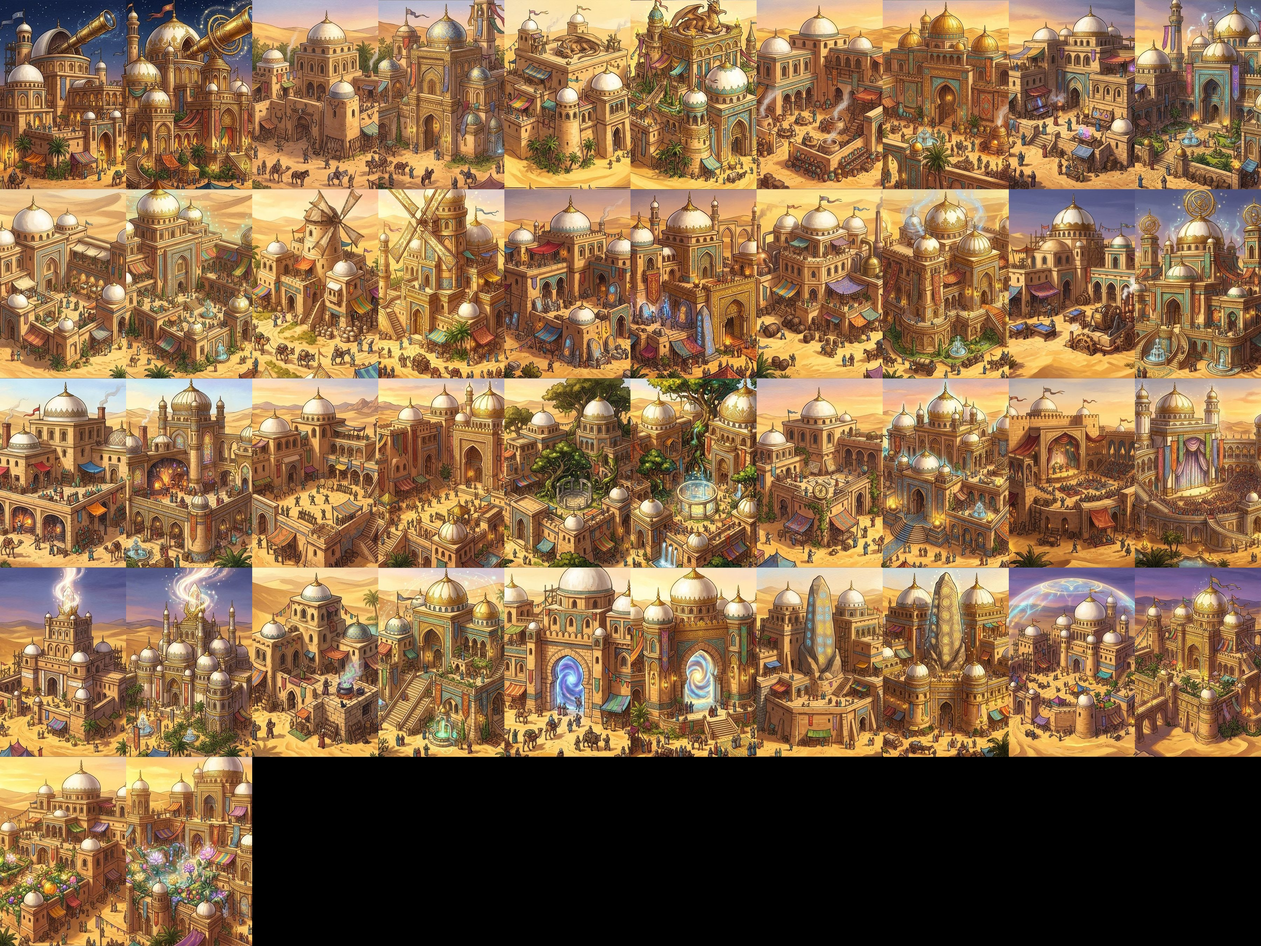
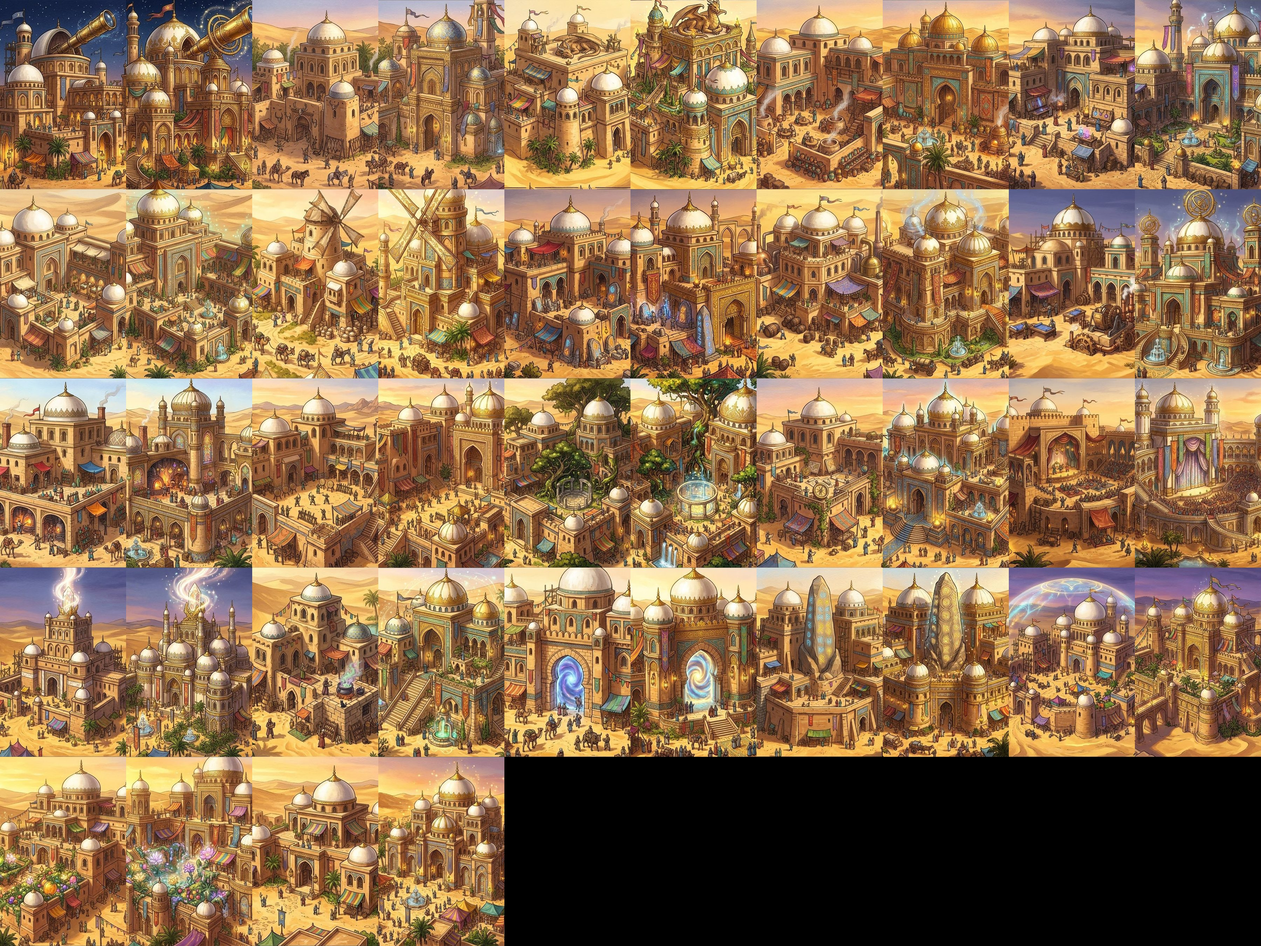
Картинки Дома старосты 2 и 3 уровня
Claude-Session: https://claude.ai/code/session_01HyoCSepB2PEcoN3jCxWxLT

Changed region(s): [[0.1867, 0.7778, 0.4044, 1.0]]

diff --git a/app/src/main/assets/www/index.html b/app/src/main/assets/www/index.html
@@ -482,7 +482,7 @@ body{overflow-x:hidden}
 <style id="imgcss"></style>
 
 <script>
-const BUILD_VER="13.11.2026 21:49";
+const BUILD_VER="13.11.2026 21:51";
 let SLOT=1;try{SLOT=+localStorage.getItem('sixlands-slot')||1}catch(e){}
 const SK_=n=>'sixlands-save-'+n;
 try{const old=localStorage.getItem('tiholesye-v3');if(old&&!localStorage.getItem(SK_(1))){localStorage.setItem(SK_(1),old);localStorage.removeItem('tiholesye-v3')}}catch(e){}
@@ -998,7 +998,7 @@ try{STYLE=localStorage.getItem('tiholesye-style3')||STYLE_DEF}catch(e){}
 const TERR=Object.keys(LAND);
 const IMG={};let db=null,TEX=null,pendingKey=null;
 const BUILT=new Set(["alchemy", "archery", "bakery", "ballista", "barracks", "barrier", "beacon", "brewery", "burrow", "burrow_2", "butcher", "civ_code", "civ_craft", "civ_diplomacy", "civ_drama", "civ_empire", "civ_feudal", "civ_golden", "civ_hospitality", "civ_humanism", "civ_myth", "civ_theology", "civ_warcode", "cs_amber", "cs_forge", "cs_moon", "cs_pirates", "cs_sages", "desert__emblem", "dragon", "e_artifact", "e_bandits", "e_bard", "e_border", "e_caravan", "e_dragon", "e_drought", "e_eclipse", "e_envoy", "e_fair", "e_fairy", "e_fire", "e_giftfrom", "e_goblins", "e_harvestfest", "e_inventor", "e_manticore", "e_omen", "e_ore", "e_pilgrims", "e_plague", "e_refugees", "e_rumor", "e_spy", "e_star", "e_tribute", "e_troll", "e_undead", "e_wedding", "e_wolves", "east__emblem", "elves__emblem", "enchanter", "europe__emblem", "ev_pirates", "farm", "farm_2", "fate", "fence", "fountain", "g_lunira", "g_merkator", "g_mirta", "g_solara", "g_torvald", "g_velgard", "garden", "gate", "gd_crystal", "gd_map", "gd_mercs", "gd_relic", "gd_scroll", "gd_seeds", "gd_silk", "gd_statue", "glass", "gp_artist", "gp_general", "gp_scientist", "grove", "hall", "herbalist", "hole", "hole_2", "hunter", "hut", "hut_2", "infirmary", "jeweler", "library", "logo", "longhouse", "longhouse_2", "lumber", "m_alchemy", "m_archery", "m_bakery", "m_barracks", "m_brewery", "m_butcher", "m_dragon", "m_enchanter", "m_glass", "m_grove", "m_herbalist", "m_hunter", "m_infirmary", "m_jeweler", "m_library", "m_mapper", "m_mill", "m_observatory", "m_potter", "m_runes", "m_smithy", "m_tailor", "m_tavern", "m_theater", "m_tower", "m_witchhut", "m_workshop", "magi__emblem", "manawell", "mapper", "market", "mill", "north__emblem", "observatory", "palisade", "portal", "potter", "prop_defense", "prop_home", "prop_quests", "prop_trip", "quarry", "race_dwarf", "race_elf", "race_halfling", "race_human", "race_orc", "res_culture", "res_fame", "res_food", "res_gold", "res_happy", "res_mana", "res_people", "res_science", "res_stone", "res_wood", "runes", "season_autumn", "season_spring", "season_summer", "season_winter", "sh_lunira", "sh_merkator", "sh_mirta", "sh_solara", "sh_torvald", "sh_velgard", "smithy", "sp_bloom", "sp_call", "sp_dream", "sp_festive", "sp_golem", "sp_meteor", "sp_prayer", "sp_rain", "sp_stoneskin", "sp_trans", "sp_ward", "sp_wings", "stonewall", "t_edge", "t_ley", "t_plain", "t_rock", "table_felt", "table_wood", "tailor", "tavern", "tech_agri", "tech_alchemy", "tech_arcana", "tech_archery", "tech_astronomy", "tech_bronze", "tech_currency", "tech_dragons", "tech_engineering", "tech_final", "tech_iron", "tech_masonry", "tech_math", "tech_mysticism", "tech_philosophy", "tech_riding", "tech_writing", "temple", "theater", "tower", "treehouse", "treehouse_2", "wardstone", "watchtower", "witchhut", "workshop", "east__spy", "europe__spy", "elves__spy", "magi__spy", "north__spy", "desert__spy", "ms_scout", "ms_steal", "ms_sabotage", "ms_gold", "ms_rig", "ms_counter", "east__hero", "europe__hero", "elves__hero", "magi__hero", "north__hero", "rl_seed", "rl_lens", "rl_lyre", "rl_grail", "rl_axe", "rl_pick", "rl_orb", "rl_banner", "rl_mask", "rl_map", "rl_heart", "rl_icecrown", "rl_staff", "caravan", "sc_winter", "sc_siege", "sc_merchant", "sc_sage", "desert__hero", "o_fair", "sc_hunter", "o_harvest", "sc_unity", "o_logging", "o_watch", "o_muster", "o_stone", "o_study", "o_tithe", "o_guild", "rl_horn", "o_ley", "rl_crown", "o_labor", "ex_lich", "o_envoy", "ex_giant", "o_levy", "ex_dragon", "ex_barrow", "o_arts", "ex_camp", "o_cry", "ex_nest", "o_secret", "ex_temple", "o_expedit", "ex_cave", "ex_ruins", "gw_lighthouse", "gw_mint", "gw_gardens", "gw_library", "gw_colosseum", "gw_academy", "gw_wall", "gw_cathedral", "mc_rabble", "mc_pikes", "mc_axes", "mc_bows", "mc_riders", "mc_mages", "mc_siege", "desert__hr_mystic", "desert__hr_ranger", "desert__hr_guard", "desert__hr_champ", "north__hr_mystic", "north__hr_ranger", "north__hr_guard", "north__hr_champ", "magi__hr_ranger", "magi__hr_guard", "magi__hr_champ", "magi__hr_mystic", "elves__hr_guard", "elves__hr_ranger", "elves__hr_champ", "elves__hr_mystic", "europe__hr_guard", "europe__hr_ranger", "europe__hr_mystic", "europe__hr_champ", "east__hr_ranger", "east__hr_guard", "east__hr_mystic", "east__hr_champ"]);
-const PK={},ATL={"east":["hall","hut","house","manor","farm","lumber","quarry","manawell","market","fountain","temple","wonder","fence","palisade","watchtower","stonewall","gate","ballista","yard","stable","sh_harvest","sh_forge","sh_magic","sh_guard","sh_hearth","sh_trade","butcher","bakery","tavern","smithy","herbalist","alchemy","tailor","jeweler","barracks","library","tower","observatory","enchanter","dragon","hunter","potter","brewery","mill","infirmary","runes","grove","glass","workshop","archery","witchhut","theater","mapper","beacon","garden","portal","wardstone","barrier","m_tavern","m_hunter","m_butcher","m_bakery","m_potter","m_smithy","m_herbalist","m_mill","m_alchemy","m_barracks","m_tailor","m_brewery","m_infirmary","m_archery","m_jeweler","m_runes","m_workshop","m_library","m_grove","m_glass","m_witchhut","m_theater","m_mapper","m_tower","m_observatory","m_enchanter","m_dragon","g_harvest","g_forge","g_magic","g_guard","g_hearth","g_trade","sp_unique","u_militia","u_soldier","u_archer","u_cavalry","u_siege","u_mage","u_unique",null,"manor_2","manor_3","farm_2","farm_3","manawell_2","manawell_3","quarry_2","quarry_3","market_2","market_3","lumber_2","lumber_3","watchtower_2","watchtower_3","temple_2","temple_3","stonewall_2","stonewall_3","fountain_2","fountain_3","ballista_2","ballista_3","yard_2","yard_3","stable_2","stable_3","gate_2","gate_3","tavern_2","tavern_3","bakery_2","bakery_3","smithy_2","smithy_3","butcher_2","butcher_3","tailor_2","tailor_3","alchemy_2","alchemy_3","jeweler_2","jeweler_3","herbalist_2","herbalist_3","tower_2","tower_3","library_2","library_3","observatory_2","observatory_3","barracks_2","barracks_3","dragon_2","dragon_3","hunter_2","hunter_3","potter_2","potter_3","enchanter_2","enchanter_3","mill_2","mill_3","infirmary_2","infirmary_3","runes_2","runes_3","brewery_2","brewery_3","workshop_2","workshop_3","glass_2","glass_3","archery_2","archery_3","grove_2","grove_3","theater_2","theater_3","mapper_2","mapper_3","beacon_2","beacon_3","witchhut_2","witchhut_3","wardstone_2","wardstone_3","portal_2","portal_3","barrier_2","barrier_3","garden_2","garden_3"],"europe":["hall","hut","house","manor","farm","lumber","quarry","manawell","market","fountain","temple","wonder","fence","palisade","watchtower","stonewall","gate","ballista","yard","stable","sh_harvest","sh_forge","sh_magic","sh_guard","sh_hearth","sh_trade","butcher","bakery","tavern","smithy","herbalist","alchemy","tailor","jeweler","barracks","library","tower","observatory","enchanter","dragon","hunter","potter","brewery","mill","infirmary","runes","grove","glass","workshop","archery","witchhut","theater","mapper","beacon","garden","portal","wardstone","barrier","m_tavern","m_hunter","m_butcher","m_bakery","m_potter","m_smithy","m_herbalist","m_mill","m_alchemy","m_barracks","m_tailor","m_brewery","m_infirmary","m_archery","m_jeweler","m_runes","m_workshop","m_library","m_grove","m_glass","m_witchhut","m_theater","m_mapper","m_tower","m_observatory","m_enchanter","m_dragon","g_harvest","g_forge","g_magic","g_guard","g_hearth","g_trade","sp_unique","u_militia","u_soldier","u_archer","u_cavalry","u_siege","u_mage","u_unique",null,"manor_2","manor_3","farm_2","farm_3","manawell_2","manawell_3","quarry_2","quarry_3","market_2","market_3","lumber_2","lumber_3","temple_2","temple_3","watchtower_2","watchtower_3","stonewall_2","stonewall_3","fountain_2","fountain_3","ballista_2","ballista_3","yard_2","yard_3","stable_2","stable_3","gate_2","gate_3","tavern_2","tavern_3","bakery_2","bakery_3","smithy_2","smithy_3","butcher_2","butcher_3","alchemy_2","alchemy_3","tailor_2","tailor_3","jeweler_2","jeweler_3","herbalist_2","herbalist_3","library_2","library_3","tower_2","tower_3","observatory_2","observatory_3","barracks_2","barracks_3","dragon_2","dragon_3","hunter_2","hunter_3","enchanter_2","enchanter_3","potter_2","potter_3","mill_2","mill_3","infirmary_2","infirmary_3","runes_2","runes_3","brewery_2","brewery_3","glass_2","glass_3","workshop_2","workshop_3","archery_2","archery_3","grove_2","grove_3","mapper_2","mapper_3","theater_2","theater_3","beacon_2","beacon_3","witchhut_2","witchhut_3","portal_2","portal_3","wardstone_2","wardstone_3","barrier_2","barrier_3","garden_2","garden_3"],"elves":["hall","hut","house","manor","farm","lumber","quarry","manawell","market","fountain","temple","wonder","fence","palisade","watchtower","stonewall","gate","ballista","yard","stable","sh_harvest","sh_forge","sh_magic","sh_guard","sh_hearth","sh_trade","butcher","bakery","tavern","smithy","herbalist","alchemy","tailor","jeweler","barracks","library","tower","observatory","enchanter","dragon","hunter","potter","brewery","mill","infirmary","runes","grove","glass","workshop","archery","witchhut","theater","mapper","beacon","garden","portal","wardstone","barrier","m_tavern","m_hunter","m_butcher","m_bakery","m_potter","m_smithy","m_herbalist","m_mill","m_alchemy","m_barracks","m_tailor","m_brewery","m_infirmary","m_archery","m_jeweler","m_runes","m_workshop","m_library","m_grove","m_glass","m_witchhut","m_theater","m_mapper","m_tower","m_observatory","m_enchanter","m_dragon","g_harvest","g_forge","g_magic","g_guard","g_hearth","g_trade","sp_unique","u_militia","u_soldier","u_archer","u_cavalry","u_siege","u_mage","u_unique",null,"manor_2","manor_3","farm_2","farm_3","lumber_2","lumber_3","market_2","market_3","manawell_2","manawell_3","quarry_2","quarry_3","fountain_2","fountain_3","watchtower_2","watchtower_3","stonewall_2","stonewall_3","temple_2","temple_3","ballista_2","ballista_3","yard_2","yard_3","stable_2","stable_3","gate_2","gate_3","bakery_2","bakery_3","tavern_2","tavern_3","butcher_2","butcher_3","smithy_2","smithy_3","tailor_2","tailor_3","alchemy_2","alchemy_3","jeweler_2","jeweler_3","herbalist_2","herbalist_3","library_2","library_3","tower_2","tower_3","observatory_2","observatory_3","barracks_2","barracks_3","dragon_2","dragon_3","hunter_2","hunter_3","potter_2","potter_3","enchanter_2","enchanter_3","mill_2","mill_3","infirmary_2","infirmary_3","runes_2","runes_3","brewery_2","brewery_3","glass_2","glass_3","workshop_2","workshop_3","grove_2","grove_3","archery_2","archery_3","theater_2","theater_3","mapper_2","mapper_3","beacon_2","beacon_3","witchhut_2","witchhut_3","portal_2","portal_3","wardstone_2","wardstone_3","garden_2","garden_3","barrier_2","barrier_3"],"magi":["hall","hut","house","manor","farm","lumber","quarry","manawell","market","fountain","temple","wonder","fence","palisade","watchtower","stonewall","gate","ballista","yard","stable","sh_harvest","sh_forge","sh_magic","sh_guard","sh_hearth","sh_trade","butcher","bakery","tavern","smithy","herbalist","alchemy","tailor","jeweler","barracks","library","tower","observatory","enchanter","dragon","hunter","potter","brewery","mill","infirmary","runes","grove","glass","workshop","archery","witchhut","theater","mapper","beacon","garden","portal","wardstone","barrier","m_tavern","m_hunter","m_butcher","m_bakery","m_potter","m_smithy","m_herbalist","m_mill","m_alchemy","m_barracks","m_tailor","m_brewery","m_infirmary","m_archery","m_jeweler","m_runes","m_workshop","m_library","m_grove","m_glass","m_witchhut","m_theater","m_mapper","m_tower","m_observatory","m_enchanter","m_dragon","g_harvest","g_forge","g_magic","g_guard","g_hearth","g_trade","sp_unique","u_militia","u_soldier","u_archer","u_cavalry","u_siege","u_mage","u_unique",null,"manor_2","manor_3","farm_2","farm_3","quarry_2","quarry_3","manawell_2","manawell_3","market_2","market_3","lumber_2","lumber_3","temple_2","temple_3","watchtower_2","watchtower_3","stonewall_2","stonewall_3","fountain_2","fountain_3","ballista_2","ballista_3","yard_2","yard_3","stable_2","stable_3","gate_2","gate_3","bakery_2","bakery_3","tavern_2","tavern_3","smithy_2","smithy_3","butcher_2","butcher_3","alchemy_2","alchemy_3","tailor_2","tailor_3","jeweler_2","jeweler_3","herbalist_2","herbalist_3","library_2","library_3","tower_2","tower_3","observatory_2","observatory_3","barracks_2","barracks_3","hunter_2","hunter_3","dragon_2","dragon_3","potter_2","potter_3","enchanter_2","enchanter_3","mill_2","mill_3","infirmary_2","infirmary_3","runes_2","runes_3","brewery_2","brewery_3","glass_2","glass_3","workshop_2","workshop_3","archery_2","archery_3","grove_2","grove_3","theater_2","theater_3","mapper_2","mapper_3","beacon_2","beacon_3","witchhut_2","witchhut_3","portal_2","portal_3","wardstone_2","wardstone_3","barrier_2","barrier_3","garden_2","garden_3"],"north":["hall","hut","house","manor","farm","lumber","quarry","manawell","market","fountain","temple","wonder","fence","palisade","watchtower","stonewall","gate","ballista","yard","stable","sh_harvest","sh_forge","sh_magic","sh_guard","sh_hearth","sh_trade","butcher","bakery","tavern","smithy","herbalist","alchemy","tailor","jeweler","barracks","library","tower","observatory","enchanter","dragon","hunter","potter","brewery","mill","infirmary","runes","grove","glass","workshop","archery","witchhut","theater","mapper","beacon","garden","portal","wardstone","barrier","m_tavern","m_hunter","m_butcher","m_bakery","m_potter","m_smithy","m_herbalist","m_mill","m_alchemy","m_barracks","m_tailor","m_brewery","m_infirmary","m_archery","m_jeweler","m_runes","m_workshop","m_library","m_grove","m_glass","m_witchhut","m_theater","m_mapper","m_tower","m_observatory","m_enchanter","m_dragon","g_harvest","g_forge","g_magic","g_guard","g_hearth","g_trade","sp_unique","u_militia","u_soldier","u_archer","u_cavalry","u_siege","u_mage","u_unique",null,"wardstone_2","wardstone_3","portal_2","portal_3","barrier_2","barrier_3","garden_2","garden_3","theater_2","theater_3","mapper_2","mapper_3","witchhut_2","witchhut_3","beacon_2","beacon_3","workshop_2","workshop_3","glass_2","glass_3","grove_2","grove_3","archery_2","archery_3","mill_2","mill_3","infirmary_2","infirmary_3","brewery_2","brewery_3","runes_2","runes_3","dragon_2","dragon_3","hunter_2","hunter_3","enchanter_2","enchanter_3","potter_2","potter_3","library_2","library_3","tower_2","tower_3","barracks_2","barracks_3","observatory_2","observatory_3","alchemy_2","alchemy_3","tailor_2","tailor_3","herbalist_2","herbalist_3","jeweler_2","jeweler_3","tavern_2","tavern_3","bakery_2","bakery_3","butcher_2","butcher_3","smithy_2","smithy_3","yard_2","yard_3","ballista_2","ballista_3","gate_2","gate_3","stable_2","stable_3","watchtower_2","watchtower_3","temple_2","temple_3","fountain_2","fountain_3","stonewall_2","stonewall_3","manawell_2","manawell_3","quarry_2","quarry_3","market_2","market_3","lumber_2","lumber_3","farm_2","farm_3","manor_2","manor_3"],"desert":["hall","hut","house","manor","farm","lumber","quarry","manawell","market","fountain","temple","wonder","fence","palisade","watchtower","stonewall","gate","ballista","yard","stable","sh_harvest","sh_forge","sh_magic","sh_guard","sh_hearth","sh_trade","butcher","bakery","tavern","smithy","herbalist","alchemy","tailor","jeweler","barracks","library","tower","observatory","enchanter","dragon","hunter","potter","brewery","mill","infirmary","runes","grove","glass","workshop","archery","witchhut","theater","mapper","beacon","garden","portal","wardstone","barrier","m_tavern","m_hunter","m_butcher","m_bakery","m_potter","m_smithy","m_herbalist","m_mill","m_alchemy","m_barracks","m_tailor","m_brewery","m_infirmary","m_archery","m_jeweler","m_runes","m_workshop","m_library","m_grove","m_glass","m_witchhut","m_theater","m_mapper","m_tower","m_observatory","m_enchanter","m_dragon","g_harvest","g_forge","g_magic","g_guard","g_hearth","g_trade","sp_unique","u_militia","u_soldier","u_archer","u_cavalry","u_siege","u_mage","u_unique",null,"manor_2","manor_3","farm_2","farm_3","lumber_2","lumber_3","market_2","market_3","quarry_2","quarry_3","manawell_2","manawell_3","watchtower_2","watchtower_3","temple_2","temple_3","stonewall_2","stonewall_3","fountain_2","fountain_3","yard_2","yard_3","ballista_2","ballista_3","stable_2","stable_3","gate_2","gate_3","tavern_2","tavern_3","bakery_2","bakery_3","butcher_2","butcher_3","smithy_2","smithy_3","tailor_2","tailor_3","alchemy_2","alchemy_3","jeweler_2","jeweler_3","herbalist_2","herbalist_3","library_2","library_3","tower_2","tower_3","barracks_2","barracks_3","observatory_2","observatory_3","hunter_2","hunter_3","dragon_2","dragon_3","potter_2","potter_3","enchanter_2","enchanter_3","infirmary_2","infirmary_3","mill_2","mill_3","runes_2","runes_3","brewery_2","brewery_3","workshop_2","workshop_3","glass_2","glass_3","archery_2","archery_3","grove_2","grove_3","mapper_2","mapper_3","theater_2","theater_3","beacon_2","beacon_3","witchhut_2","witchhut_3","portal_2","portal_3","wardstone_2","wardstone_3","barrier_2","barrier_3","garden_2","garden_3"]},ATLS={};
+const PK={},ATL={"east":["hall","hut","house","manor","farm","lumber","quarry","manawell","market","fountain","temple","wonder","fence","palisade","watchtower","stonewall","gate","ballista","yard","stable","sh_harvest","sh_forge","sh_magic","sh_guard","sh_hearth","sh_trade","butcher","bakery","tavern","smithy","herbalist","alchemy","tailor","jeweler","barracks","library","tower","observatory","enchanter","dragon","hunter","potter","brewery","mill","infirmary","runes","grove","glass","workshop","archery","witchhut","theater","mapper","beacon","garden","portal","wardstone","barrier","m_tavern","m_hunter","m_butcher","m_bakery","m_potter","m_smithy","m_herbalist","m_mill","m_alchemy","m_barracks","m_tailor","m_brewery","m_infirmary","m_archery","m_jeweler","m_runes","m_workshop","m_library","m_grove","m_glass","m_witchhut","m_theater","m_mapper","m_tower","m_observatory","m_enchanter","m_dragon","g_harvest","g_forge","g_magic","g_guard","g_hearth","g_trade","sp_unique","u_militia","u_soldier","u_archer","u_cavalry","u_siege","u_mage","u_unique",null,"manor_2","manor_3","farm_2","farm_3","manawell_2","manawell_3","quarry_2","quarry_3","market_2","market_3","lumber_2","lumber_3","watchtower_2","watchtower_3","temple_2","temple_3","stonewall_2","stonewall_3","fountain_2","fountain_3","ballista_2","ballista_3","yard_2","yard_3","stable_2","stable_3","gate_2","gate_3","tavern_2","tavern_3","bakery_2","bakery_3","smithy_2","smithy_3","butcher_2","butcher_3","tailor_2","tailor_3","alchemy_2","alchemy_3","jeweler_2","jeweler_3","herbalist_2","herbalist_3","tower_2","tower_3","library_2","library_3","observatory_2","observatory_3","barracks_2","barracks_3","dragon_2","dragon_3","hunter_2","hunter_3","potter_2","potter_3","enchanter_2","enchanter_3","mill_2","mill_3","infirmary_2","infirmary_3","runes_2","runes_3","brewery_2","brewery_3","workshop_2","workshop_3","glass_2","glass_3","archery_2","archery_3","grove_2","grove_3","theater_2","theater_3","mapper_2","mapper_3","beacon_2","beacon_3","witchhut_2","witchhut_3","wardstone_2","wardstone_3","portal_2","portal_3","barrier_2","barrier_3","garden_2","garden_3","hall_2","hall_3"],"europe":["hall","hut","house","manor","farm","lumber","quarry","manawell","market","fountain","temple","wonder","fence","palisade","watchtower","stonewall","gate","ballista","yard","stable","sh_harvest","sh_forge","sh_magic","sh_guard","sh_hearth","sh_trade","butcher","bakery","tavern","smithy","herbalist","alchemy","tailor","jeweler","barracks","library","tower","observatory","enchanter","dragon","hunter","potter","brewery","mill","infirmary","runes","grove","glass","workshop","archery","witchhut","theater","mapper","beacon","garden","portal","wardstone","barrier","m_tavern","m_hunter","m_butcher","m_bakery","m_potter","m_smithy","m_herbalist","m_mill","m_alchemy","m_barracks","m_tailor","m_brewery","m_infirmary","m_archery","m_jeweler","m_runes","m_workshop","m_library","m_grove","m_glass","m_witchhut","m_theater","m_mapper","m_tower","m_observatory","m_enchanter","m_dragon","g_harvest","g_forge","g_magic","g_guard","g_hearth","g_trade","sp_unique","u_militia","u_soldier","u_archer","u_cavalry","u_siege","u_mage","u_unique",null,"manor_2","manor_3","farm_2","farm_3","manawell_2","manawell_3","quarry_2","quarry_3","market_2","market_3","lumber_2","lumber_3","temple_2","temple_3","watchtower_2","watchtower_3","stonewall_2","stonewall_3","fountain_2","fountain_3","ballista_2","ballista_3","yard_2","yard_3","stable_2","stable_3","gate_2","gate_3","tavern_2","tavern_3","bakery_2","bakery_3","smithy_2","smithy_3","butcher_2","butcher_3","alchemy_2","alchemy_3","tailor_2","tailor_3","jeweler_2","jeweler_3","herbalist_2","herbalist_3","library_2","library_3","tower_2","tower_3","observatory_2","observatory_3","barracks_2","barracks_3","dragon_2","dragon_3","hunter_2","hunter_3","enchanter_2","enchanter_3","potter_2","potter_3","mill_2","mill_3","infirmary_2","infirmary_3","runes_2","runes_3","brewery_2","brewery_3","glass_2","glass_3","workshop_2","workshop_3","archery_2","archery_3","grove_2","grove_3","mapper_2","mapper_3","theater_2","theater_3","beacon_2","beacon_3","witchhut_2","witchhut_3","portal_2","portal_3","wardstone_2","wardstone_3","barrier_2","barrier_3","garden_2","garden_3","hall_2","hall_3"],"elves":["hall","hut","house","manor","farm","lumber","quarry","manawell","market","fountain","temple","wonder","fence","palisade","watchtower","stonewall","gate","ballista","yard","stable","sh_harvest","sh_forge","sh_magic","sh_guard","sh_hearth","sh_trade","butcher","bakery","tavern","smithy","herbalist","alchemy","tailor","jeweler","barracks","library","tower","observatory","enchanter","dragon","hunter","potter","brewery","mill","infirmary","runes","grove","glass","workshop","archery","witchhut","theater","mapper","beacon","garden","portal","wardstone","barrier","m_tavern","m_hunter","m_butcher","m_bakery","m_potter","m_smithy","m_herbalist","m_mill","m_alchemy","m_barracks","m_tailor","m_brewery","m_infirmary","m_archery","m_jeweler","m_runes","m_workshop","m_library","m_grove","m_glass","m_witchhut","m_theater","m_mapper","m_tower","m_observatory","m_enchanter","m_dragon","g_harvest","g_forge","g_magic","g_guard","g_hearth","g_trade","sp_unique","u_militia","u_soldier","u_archer","u_cavalry","u_siege","u_mage","u_unique",null,"manor_2","manor_3","farm_2","farm_3","lumber_2","lumber_3","market_2","market_3","manawell_2","manawell_3","quarry_2","quarry_3","fountain_2","fountain_3","watchtower_2","watchtower_3","stonewall_2","stonewall_3","temple_2","temple_3","ballista_2","ballista_3","yard_2","yard_3","stable_2","stable_3","gate_2","gate_3","bakery_2","bakery_3","tavern_2","tavern_3","butcher_2","butcher_3","smithy_2","smithy_3","tailor_2","tailor_3","alchemy_2","alchemy_3","jeweler_2","jeweler_3","herbalist_2","herbalist_3","library_2","library_3","tower_2","tower_3","observatory_2","observatory_3","barracks_2","barracks_3","dragon_2","dragon_3","hunter_2","hunter_3","potter_2","potter_3","enchanter_2","enchanter_3","mill_2","mill_3","infirmary_2","infirmary_3","runes_2","runes_3","brewery_2","brewery_3","glass_2","glass_3","workshop_2","workshop_3","grove_2","grove_3","archery_2","archery_3","theater_2","theater_3","mapper_2","mapper_3","beacon_2","beacon_3","witchhut_2","witchhut_3","portal_2","portal_3","wardstone_2","wardstone_3","garden_2","garden_3","barrier_2","barrier_3","hall_2","hall_3"],"magi":["hall","hut","house","manor","farm","lumber","quarry","manawell","market","fountain","temple","wonder","fence","palisade","watchtower","stonewall","gate","ballista","yard","stable","sh_harvest","sh_forge","sh_magic","sh_guard","sh_hearth","sh_trade","butcher","bakery","tavern","smithy","herbalist","alchemy","tailor","jeweler","barracks","library","tower","observatory","enchanter","dragon","hunter","potter","brewery","mill","infirmary","runes","grove","glass","workshop","archery","witchhut","theater","mapper","beacon","garden","portal","wardstone","barrier","m_tavern","m_hunter","m_butcher","m_bakery","m_potter","m_smithy","m_herbalist","m_mill","m_alchemy","m_barracks","m_tailor","m_brewery","m_infirmary","m_archery","m_jeweler","m_runes","m_workshop","m_library","m_grove","m_glass","m_witchhut","m_theater","m_mapper","m_tower","m_observatory","m_enchanter","m_dragon","g_harvest","g_forge","g_magic","g_guard","g_hearth","g_trade","sp_unique","u_militia","u_soldier","u_archer","u_cavalry","u_siege","u_mage","u_unique",null,"manor_2","manor_3","farm_2","farm_3","quarry_2","quarry_3","manawell_2","manawell_3","market_2","market_3","lumber_2","lumber_3","temple_2","temple_3","watchtower_2","watchtower_3","stonewall_2","stonewall_3","fountain_2","fountain_3","ballista_2","ballista_3","yard_2","yard_3","stable_2","stable_3","gate_2","gate_3","bakery_2","bakery_3","tavern_2","tavern_3","smithy_2","smithy_3","butcher_2","butcher_3","alchemy_2","alchemy_3","tailor_2","tailor_3","jeweler_2","jeweler_3","herbalist_2","herbalist_3","library_2","library_3","tower_2","tower_3","observatory_2","observatory_3","barracks_2","barracks_3","hunter_2","hunter_3","dragon_2","dragon_3","potter_2","potter_3","enchanter_2","enchanter_3","mill_2","mill_3","infirmary_2","infirmary_3","runes_2","runes_3","brewery_2","brewery_3","glass_2","glass_3","workshop_2","workshop_3","archery_2","archery_3","grove_2","grove_3","theater_2","theater_3","mapper_2","mapper_3","beacon_2","beacon_3","witchhut_2","witchhut_3","portal_2","portal_3","wardstone_2","wardstone_3","barrier_2","barrier_3","garden_2","garden_3","hall_2","hall_3"],"north":["hall","hut","house","manor","farm","lumber","quarry","manawell","market","fountain","temple","wonder","fence","palisade","watchtower","stonewall","gate","ballista","yard","stable","sh_harvest","sh_forge","sh_magic","sh_guard","sh_hearth","sh_trade","butcher","bakery","tavern","smithy","herbalist","alchemy","tailor","jeweler","barracks","library","tower","observatory","enchanter","dragon","hunter","potter","brewery","mill","infirmary","runes","grove","glass","workshop","archery","witchhut","theater","mapper","beacon","garden","portal","wardstone","barrier","m_tavern","m_hunter","m_butcher","m_bakery","m_potter","m_smithy","m_herbalist","m_mill","m_alchemy","m_barracks","m_tailor","m_brewery","m_infirmary","m_archery","m_jeweler","m_runes","m_workshop","m_library","m_grove","m_glass","m_witchhut","m_theater","m_mapper","m_tower","m_observatory","m_enchanter","m_dragon","g_harvest","g_forge","g_magic","g_guard","g_hearth","g_trade","sp_unique","u_militia","u_soldier","u_archer","u_cavalry","u_siege","u_mage","u_unique",null,"wardstone_2","wardstone_3","portal_2","portal_3","barrier_2","barrier_3","garden_2","garden_3","theater_2","theater_3","mapper_2","mapper_3","witchhut_2","witchhut_3","beacon_2","beacon_3","workshop_2","workshop_3","glass_2","glass_3","grove_2","grove_3","archery_2","archery_3","mill_2","mill_3","infirmary_2","infirmary_3","brewery_2","brewery_3","runes_2","runes_3","dragon_2","dragon_3","hunter_2","hunter_3","enchanter_2","enchanter_3","potter_2","potter_3","library_2","library_3","tower_2","tower_3","barracks_2","barracks_3","observatory_2","observatory_3","alchemy_2","alchemy_3","tailor_2","tailor_3","herbalist_2","herbalist_3","jeweler_2","jeweler_3","tavern_2","tavern_3","bakery_2","bakery_3","butcher_2","butcher_3","smithy_2","smithy_3","yard_2","yard_3","ballista_2","ballista_3","gate_2","gate_3","stable_2","stable_3","watchtower_2","watchtower_3","temple_2","temple_3","fountain_2","fountain_3","stonewall_2","stonewall_3","manawell_2","manawell_3","quarry_2","quarry_3","market_2","market_3","lumber_2","lumber_3","farm_2","farm_3","manor_2","manor_3","hall_2","hall_3"],"desert":["hall","hut","house","manor","farm","lumber","quarry","manawell","market","fountain","temple","wonder","fence","palisade","watchtower","stonewall","gate","ballista","yard","stable","sh_harvest","sh_forge","sh_magic","sh_guard","sh_hearth","sh_trade","butcher","bakery","tavern","smithy","herbalist","alchemy","tailor","jeweler","barracks","library","tower","observatory","enchanter","dragon","hunter","potter","brewery","mill","infirmary","runes","grove","glass","workshop","archery","witchhut","theater","mapper","beacon","garden","portal","wardstone","barrier","m_tavern","m_hunter","m_butcher","m_bakery","m_potter","m_smithy","m_herbalist","m_mill","m_alchemy","m_barracks","m_tailor","m_brewery","m_infirmary","m_archery","m_jeweler","m_runes","m_workshop","m_library","m_grove","m_glass","m_witchhut","m_theater","m_mapper","m_tower","m_observatory","m_enchanter","m_dragon","g_harvest","g_forge","g_magic","g_guard","g_hearth","g_trade","sp_unique","u_militia","u_soldier","u_archer","u_cavalry","u_siege","u_mage","u_unique",null,"manor_2","manor_3","farm_2","farm_3","lumber_2","lumber_3","market_2","market_3","quarry_2","quarry_3","manawell_2","manawell_3","watchtower_2","watchtower_3","temple_2","temple_3","stonewall_2","stonewall_3","fountain_2","fountain_3","yard_2","yard_3","ballista_2","ballista_3","stable_2","stable_3","gate_2","gate_3","tavern_2","tavern_3","bakery_2","bakery_3","butcher_2","butcher_3","smithy_2","smithy_3","tailor_2","tailor_3","alchemy_2","alchemy_3","jeweler_2","jeweler_3","herbalist_2","herbalist_3","library_2","library_3","tower_2","tower_3","barracks_2","barracks_3","observatory_2","observatory_3","hunter_2","hunter_3","dragon_2","dragon_3","potter_2","potter_3","enchanter_2","enchanter_3","infirmary_2","infirmary_3","mill_2","mill_3","runes_2","runes_3","brewery_2","brewery_3","workshop_2","workshop_3","glass_2","glass_3","archery_2","archery_3","grove_2","grove_3","mapper_2","mapper_3","theater_2","theater_3","beacon_2","beacon_3","witchhut_2","witchhut_3","portal_2","portal_3","wardstone_2","wardstone_3","barrier_2","barrier_3","garden_2","garden_3","hall_2","hall_3"]},ATLS={};
 const src=k=>IMG[k]||PK[k]||(BUILT.has(k)?'img/'+k+'.jpg':null);
 let atlRedraw=0;
 function atlasRefresh(){clearTimeout(atlRedraw);atlRedraw=setTimeout(()=>{imgCSS();try{render()}catch(e){}},60)}
